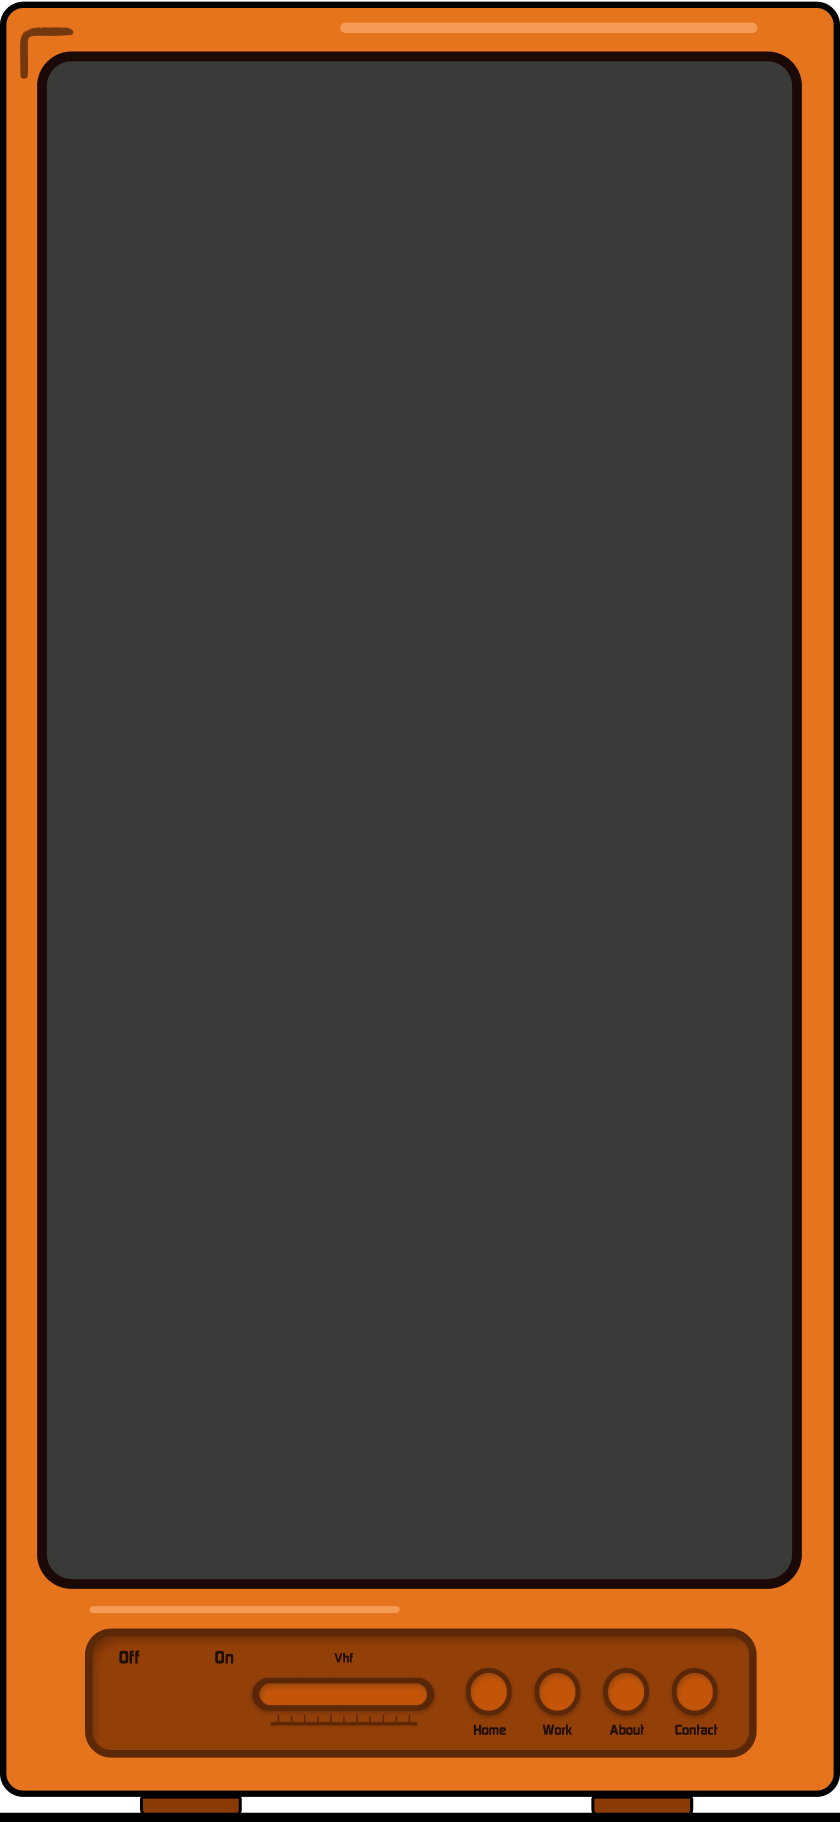
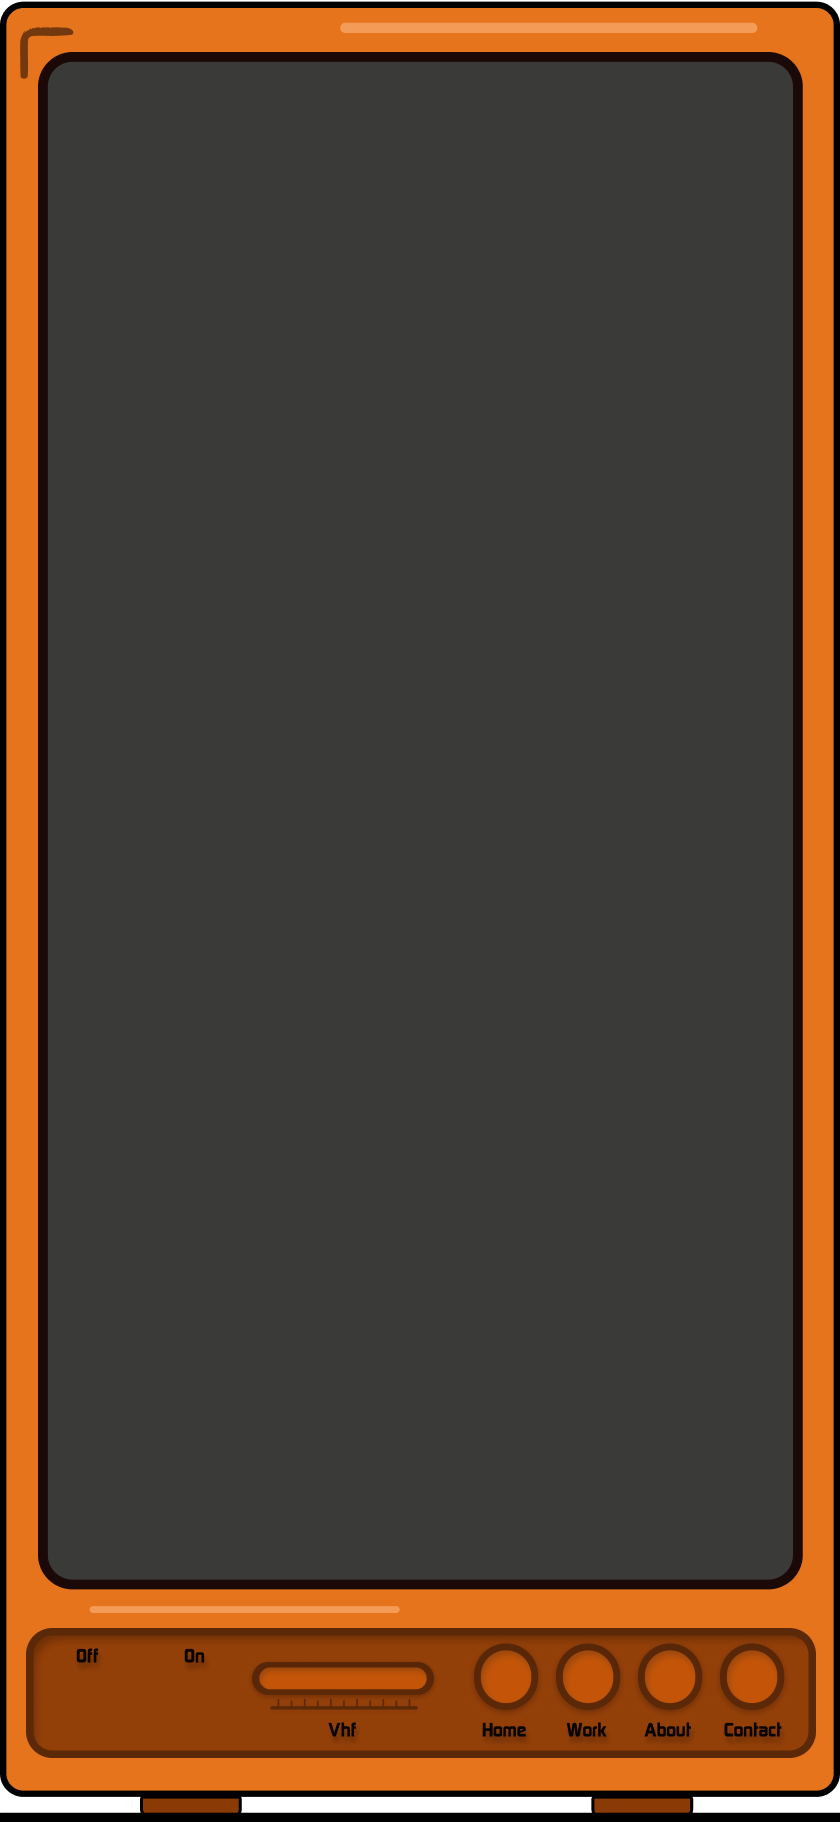
resize stuff

diff --git a/src/AppMobile.css b/src/AppMobile.css
@@ -7,6 +7,7 @@ html {
 
 .AppMobile {
   width: 100vw;
+  height: 100vh;
   height: 100dvh;
   display: flex;
   align-items: center;
@@ -24,8 +25,12 @@ html {
 
 .initialMessageMobile {
   position: absolute;
-  top: 755px;
-  left: 66px;
+  top: 730px;
+  left: 50%;
+  transform: translateX(-50%);
+  width: 100%;
+  display: flex;
+  justify-content: center;
 }
 
 .initialMessageMobile h4 {
@@ -33,8 +38,13 @@ html {
 }
 
 #ArrowMobile {
-  rotate: 151deg;
-  width: 50px;
+  position: absolute;
+  left: 49px;
+  top: -67px;
+  transform: scaleY(-1) scale();
+  rotate: -12deg;
+  width: 32px;
+  opacity: 0.7;
 }
 
 .SecondMessageMobile {
@@ -65,16 +75,16 @@ html {
 
 #SecondArrowMobile {
   position: absolute;
-  left: 110px;
-  top: 70px;
-  rotate: 280deg;
-  width: 50px;
+  left: 150px;
+  top: 60px;
+  rotate: 125deg;
+  width: 30px;
 }
 
 #mainTvMobile {
   position: absolute;
   width: 260px;
-  top: 50%;
+  top: 45%;
   left: 50%;
   transform: translateX(-50%) translateY(-50%);
   transition: all 1.2s linear;
@@ -83,8 +93,8 @@ html {
 #switchKeyMobile {
   position: absolute;
   width: 33px;
-  top: 693px;
-  left: 123px;
+  top: 646px;
+  left: 112px;
   rotate: -88deg;
   transition: all 1.2s linear;
   cursor: pointer;
@@ -94,7 +104,7 @@ html {
 #vhfToggleMobile {
   position: absolute;
   width: 25px;
-  top: 697px;
+  top: 646px;
   left: 160px;
   transition: all 1.2s linear;
 }
@@ -102,25 +112,26 @@ html {
 .pageSelectorMobile {
   background-color: #cf773a;
 
-  width: 12px;
+  width: 14px;
   aspect-ratio: 1;
   border-radius: 100%;
   position: absolute;
-  top: 701px;
+  top: 650px;
+  opacity: 0.4;
   transition: all 1.2s linear;
 }
 
 #pageSelectorMobile1 {
-  left: 230px;
+  left: 234px;
 }
 #pageSelectorMobile2 {
-  left: 250px;
+  left: 259px;
 }
 #pageSelectorMobile3 {
-  left: 272px;
+  left: 284px;
 }
 #pageSelectorMobile4 {
-  left: 292px;
+  left: 310px;
 }
 
 .childContainerMobile {
@@ -146,35 +157,35 @@ html {
 }
 
 .AppMobileParentContainer.tv-on #switchKeyMobile {
-  width: 52px;
-  top: 833px;
-  left: 66px;
+  width: 56px;
+  top: 830px;
+  left: 47px;
   rotate: 6deg;
 }
 
 .AppMobileParentContainer.tv-on #vhfToggleMobile {
-  width: 40px;
-  top: 839px;
+  width: 45px;
+  top: 828px;
   left: 120px;
 }
 
 .AppMobileParentContainer.tv-on .pageSelectorMobile {
-  opacity: 0.8;
-  width: 24px;
-  top: 843px;
+  opacity: 0.7;
+  width: 28px;
+  top: 835px;
 }
 
 .AppMobileParentContainer.tv-on #pageSelectorMobile1 {
-  left: 237px;
+  left: 243.5px;
 }
 .AppMobileParentContainer.tv-on #pageSelectorMobile2 {
-  left: 271px;
+  left: 285px;
 }
 .AppMobileParentContainer.tv-on #pageSelectorMobile3 {
-  left: 305px;
+  left: 325.5px;
 }
 .AppMobileParentContainer.tv-on #pageSelectorMobile4 {
-  left: 340px;
+  left: 366.5px;
 }
 
 .AppMobileParentContainer.tv-on .childContainerMobile {

diff --git a/src/index.js b/src/index.js
@@ -21,7 +21,7 @@ function RenderApp() {
 
   return (
     <React.StrictMode>
-      {windowWidth >= 700 ? <App /> : <AppMobile />}
+      {windowWidth >= 800 ? <App /> : <AppMobile />}
     </React.StrictMode>
   );
 }
